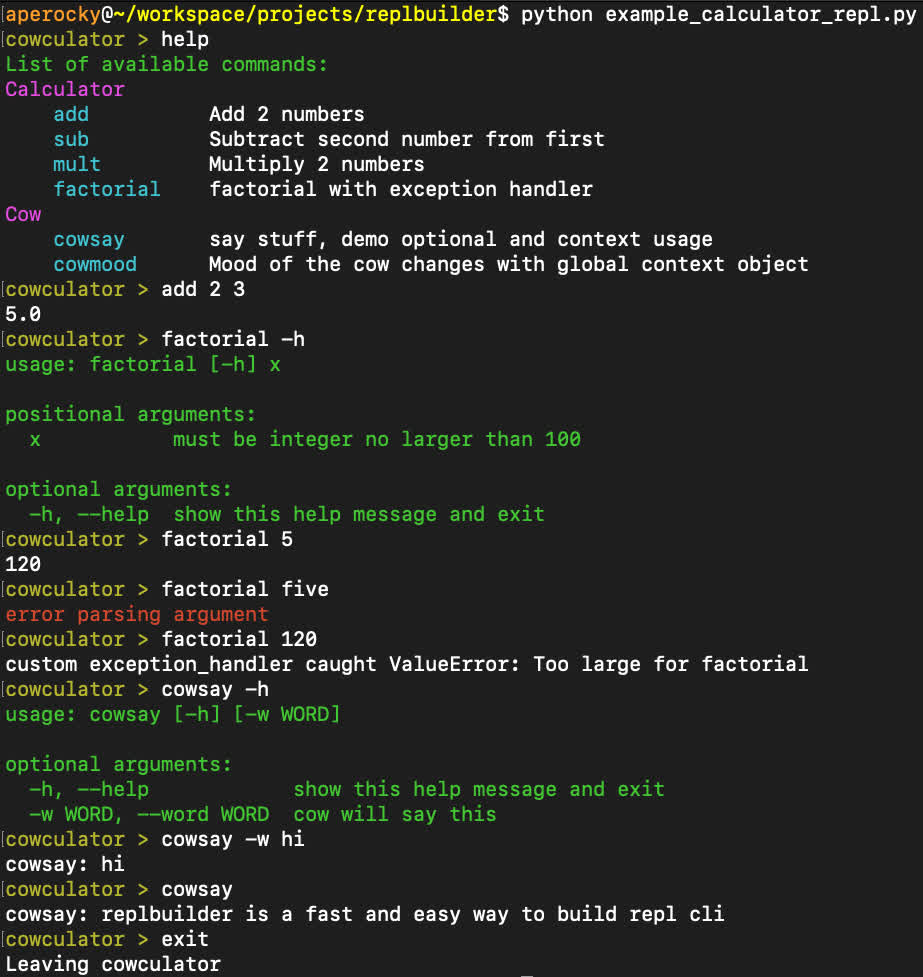
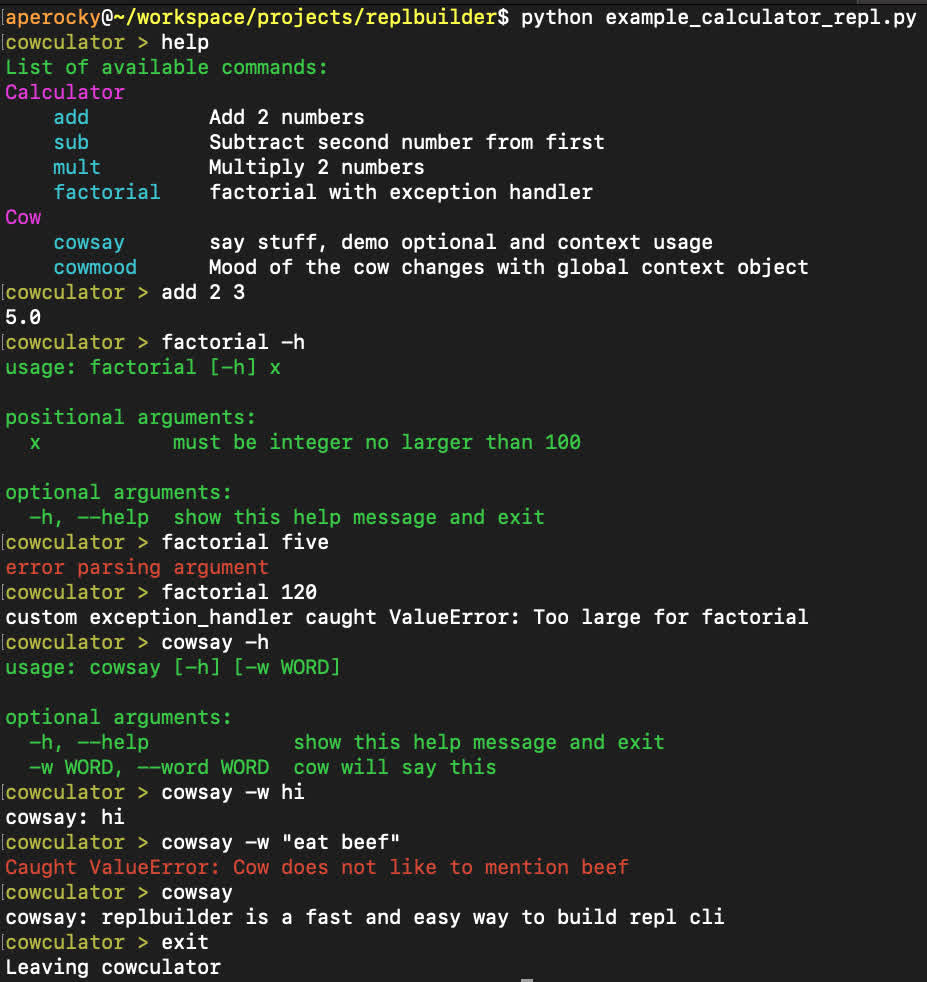
Add optional argument to catch and display command execution exception, default to True

diff --git a/src/replbuilder/repl_runner.py b/src/replbuilder/repl_runner.py
@@ -11,12 +11,13 @@ CmdHelp = namedtuple("CmdHelp", "cmd help")
 
 class ReplRunner:
 
-    def __init__(self, name="repl", context=None):
+    def __init__(self, name="repl", context=None, catch_exception=True):
         self.name = name
         self.commands = {}
         self.context = context
         # Group commands via namespace for display
         self.command_namespaces = {"Default": []}
+        self.catch_exception = catch_exception
 
     def add_commands(self, repl_commands, namespace=None):
         chs = []
@@ -40,8 +41,11 @@ class ReplRunner:
                 self.run_command(cmd_input)
             except ParserError as e:
                 pass
-            except InterruptedError:
-                raise
+            except Exception as e:
+                if self.catch_exception:
+                    print("\033[0;31mCaught {}: {}\033[0m".format(type(e).__name__, e))
+                else:
+                    raise e
 
     def run_command(self, cmd_input):
         cmd_split = shlex.split(cmd_input)

diff --git a/example_calculator_repl.py b/example_calculator_repl.py
@@ -1,6 +1,7 @@
 from replbuilder import ReplCommand, ReplRunner
 import argparse
 import random
+import re
 
 
 class Calculator:
@@ -51,6 +52,8 @@ class Cow:
         if not word:
             print("cowsay: {}".format(context.word))
         else:
+            if re.search("beef", word, re.IGNORECASE):
+                raise ValueError("Cow does not like to mention beef")
             print("cowsay: {}".format(word))
 
     def cowmood(self, args, context):
@@ -92,7 +95,7 @@ def main():
     cow_commands = [say_cmd, mood_cmd]
 
     # Running repl with above commands
-    runner = ReplRunner("cowculator", cow_context)
+    runner = ReplRunner("cowculator", context=cow_context, catch_exception=True)
     runner.add_commands(calc_commands, namespace="Calculator")
     runner.add_commands(cow_commands, namespace="Cow")
     runner.run()
